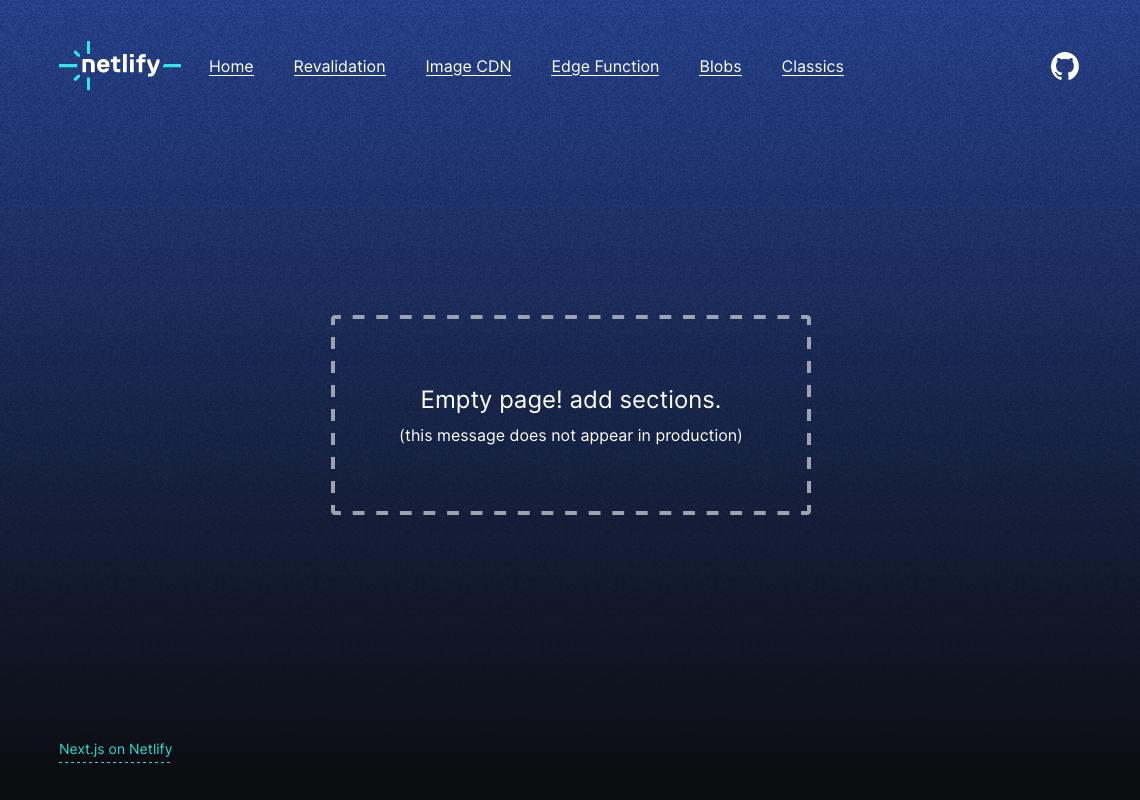
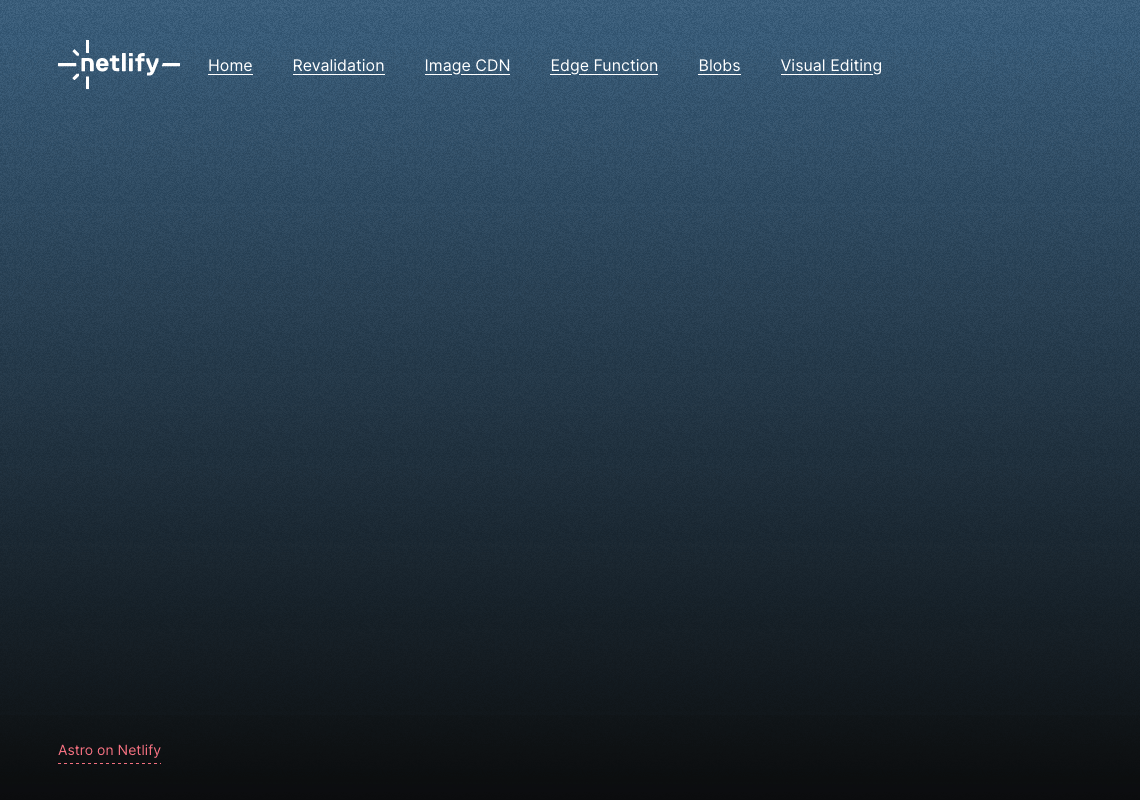
updated presets and content

Changed region(s): [[0.0, 0.0, 1.0, 0.5625], [0.0614, 0.9062, 0.1535, 0.9688], [0.307, 0.625, 0.3377, 0.6562]]

diff --git a/.stackbit/models/featuredItems.ts b/.stackbit/models/featuredItems.ts
@@ -21,7 +21,7 @@ export const featuredItems: ObjectModel = {
                         name: 'image',
                         type: 'object',
                         fields: [
-                            { name: 'src', type: 'image', default: '/images/corgi-author.jpg' },
+                            { name: 'src', type: 'image', default: '/src/content/pages/_images/corgi-hero.jpg' },
                             { name: 'alt', type: 'string' }
                         ]
                     }

diff --git a/.stackbit/models/quote.ts b/.stackbit/models/quote.ts
@@ -14,7 +14,7 @@ export const quote: ObjectModel = {
             name: 'authorImage',
             type: 'object',
             fields: [
-                { name: 'src', type: 'image', default: '/images/corgi-author.jpg' },
+                { name: 'src', type: 'image', default: '/src/content/pages/_images/corgi-author.jpg' },
                 { name: 'alt', type: 'string' }
             ]
         },

diff --git a/.stackbit/models/hero.ts b/.stackbit/models/hero.ts
@@ -13,7 +13,7 @@ export const hero: ObjectModel = {
             name: 'image',
             type: 'object',
             fields: [
-                { name: 'src', type: 'image', default: '/images/corgi.jpg' },
+                { name: 'src', type: 'image', default: '/src/content/pages/_images/corgi-hero.jpg' },
                 { name: 'alt', type: 'string' }
             ]
         },

diff --git a/src/content/pages/visual-editing.md b/src/content/pages/visual-editing.md
@@ -35,8 +35,16 @@ sections:
       - heading: Item Title
         body: Item text.
         image:
-          src: /src/content/pages/_images/corgi.jpg
+          src: /src/content/pages/_images/corgi-hero.jpg
           alt: Corgi
       - heading: Item Title
         body: Item text.
+        image:
+          src: /src/content/pages/_images/corgi-author.jpg
+          alt: Corgi
+      - heading: Item Title
+        body: Item text.
+        image:
+          src: /src/content/pages/_images/corgi.jpg
+          alt: Corgi
 ---
